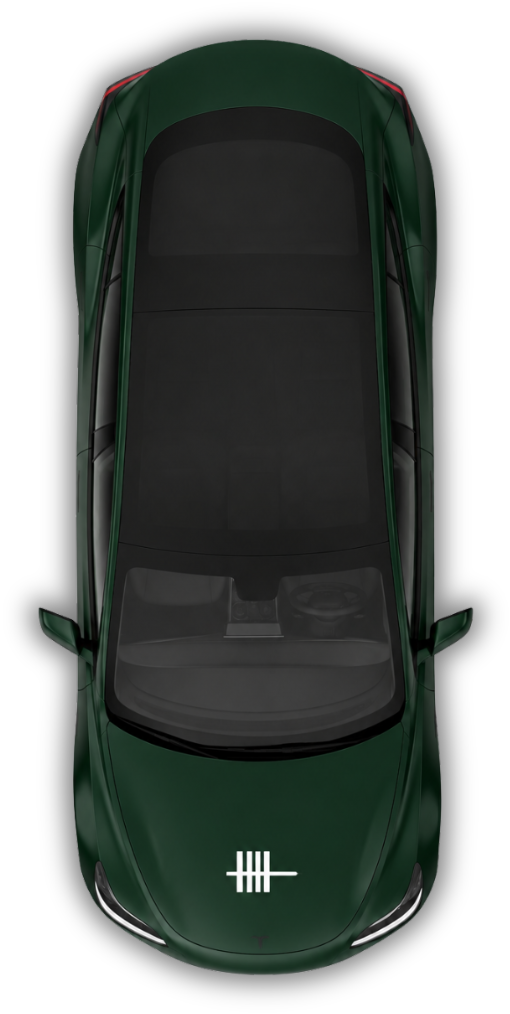
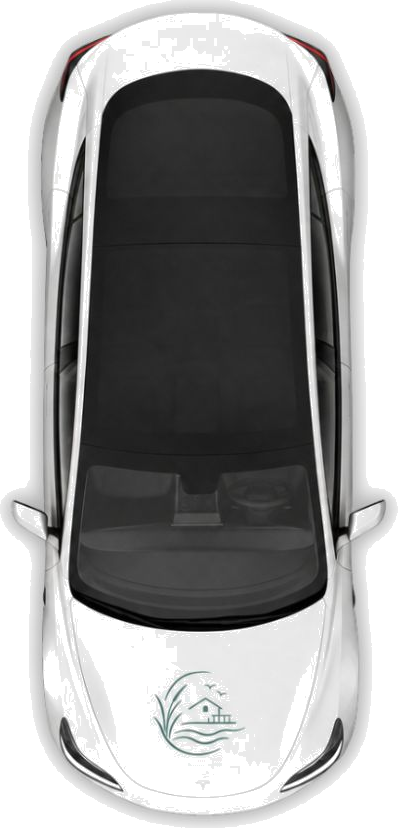
Add files via upload

diff --git a/src/app/page.tsx b/src/app/page.tsx
@@ -378,7 +378,7 @@ function RouteSection() {
             </div>
             <div className="absolute top-0 left-1/2" style={{ width: "2px", height: `${carY}%`, background: PRIMARY, transform: "translateX(-50%)" }} />
             <div className="absolute z-20" style={{ top: `${carY}%`, left: "50%", transform: "translate(-50%, -50%)" }}>
-              <Image src="/car-icon.png" alt="Auto" width={255} height={507} className="object-contain" style={{ width: "clamp(190px, 52vw, 260px)", height: "auto" }} />
+              <Image src="/car-icon.png" alt="Auto" width={398} height={828} className="object-contain" style={{ width: "clamp(190px, 52vw, 260px)", height: "auto" }} />
             </div>
             {STATIONS.map((s) => {
               const visible = progress * 100 >= s.pos - 4;
@@ -407,7 +407,7 @@ function RouteSection() {
             <div className="absolute top-0 left-0 right-0" style={{ height: `${carY}%`, background: PRIMARY }} />
           </div>
           <div className="absolute z-20" style={{ top: `${carY}%`, left: "50%", transform: "translate(-50%, -50%)" }}>
-            <Image src="/car-icon.png" alt="Auto" width={205} height={407} className="object-contain" style={{ width: "clamp(55px, 4.5vw, 85px)", height: "auto" }} />
+            <Image src="/car-icon.png" alt="Auto" width={398} height={828} className="object-contain" style={{ width: "clamp(55px, 4.5vw, 85px)", height: "auto" }} />
           </div>
           {STATIONS.map((s, i) => {
             const visible = progress * 100 >= s.pos - 4;
@@ -664,7 +664,7 @@ export default function Page() {
         <div className="md:hidden">
           <div className="relative w-full aspect-video overflow-hidden" style={{ backgroundColor: SECTION_BG }}>
             <Image src="/lake-aerial.webp" alt="Seeresidenz" fill className="object-cover" priority sizes="100vw" />
-            <div className="absolute inset-x-0 top-0 pointer-events-none" style={{ height: "90px", background: "linear-gradient(180deg, rgba(255,255,255,0.35) 0%, rgba(255,255,255,0) 100%)" }} />
+            <div className="absolute inset-x-0 top-0 pointer-events-none" style={{ height: "110px", background: "linear-gradient(180deg, rgba(45,49,52,0.55) 0%, rgba(45,49,52,0) 100%)" }} />
           </div>
           <div className="relative w-full px-5 py-8" style={{ backgroundColor: "#FBFAF7" }}>
             <div className="reveal-left">
@@ -689,7 +689,7 @@ export default function Page() {
         {/* Desktop layout */}
         <div className="hidden md:block relative w-full md:aspect-[16/10] lg:aspect-[16/8] overflow-hidden" style={{ backgroundColor: SECTION_BG }}>
           <Image src="/lake-aerial.webp" alt="Seeresidenz" fill className="object-cover" priority sizes="100vw" />
-          <div className="absolute inset-x-0 top-0 pointer-events-none" style={{ height: "160px", background: "linear-gradient(180deg, rgba(255,255,255,0.30) 0%, rgba(255,255,255,0) 100%)" }} />
+          <div className="absolute inset-x-0 top-0 pointer-events-none" style={{ height: "190px", background: "linear-gradient(180deg, rgba(45,49,52,0.50) 0%, rgba(45,49,52,0) 100%)" }} />
           <div className="absolute inset-x-0 bottom-0 pointer-events-none" style={{ height: "48%", background: "linear-gradient(180deg, transparent 0%, rgba(45,49,52,0.20) 45%, rgba(45,49,52,0.62) 100%)" }} />
 
           <div className="absolute inset-x-0 bottom-0 z-10 pb-10 lg:pb-14">
